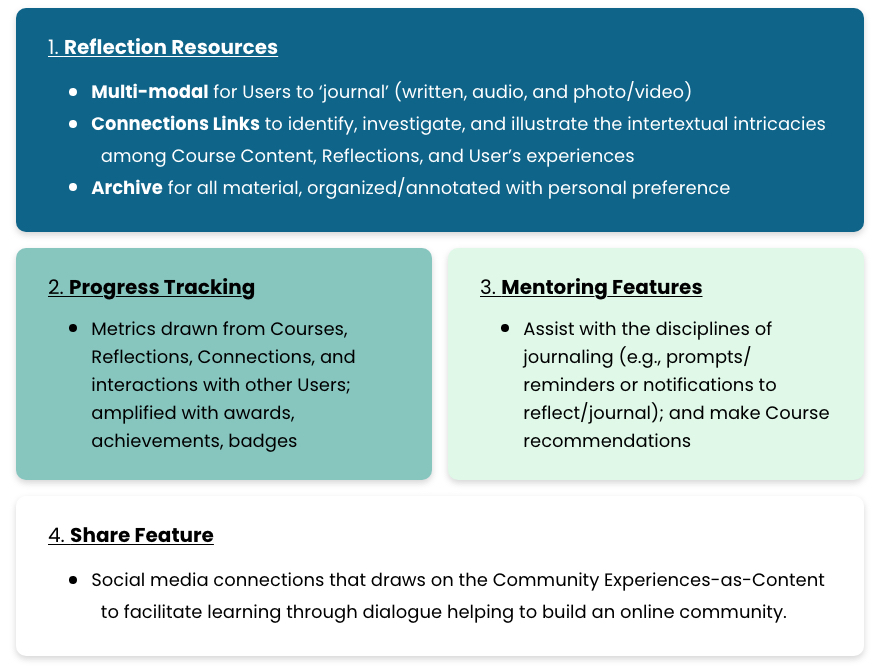
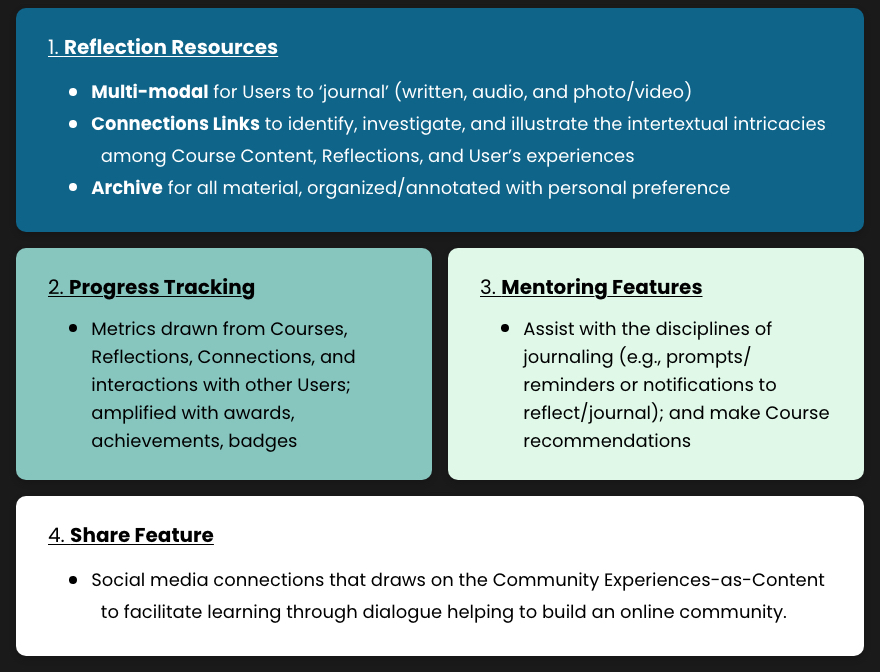
img fix

Changed region(s): [[0.0, 0.0, 1.0, 1.0]]

diff --git a/illumine.html b/illumine.html
@@ -255,7 +255,7 @@
             <h3>By creating an empathy map we were able to narrowed in on our user’s pains. We discovered that our particular type of user…</h3>
           </div>
           <div class="col-lg-12  my-auto" style="text-align: center;" data-aos="fade-up" data-aos-delay="100">
-            <img src="assets/portfolio_imgs/illumine-imgs/uxr-section/Illumine-empathy-map-pains.svg" class="img-fluid animated light-img-shadow" style="margin-bottom: 88px;" alt="">
+            <img src="assets/portfolio_imgs/illumine-imgs/Illumine-empathy-map-pains@2x.jpg" class="img-fluid animated light-img-shadow" style="margin-bottom: 88px;" alt="">
           </div>
         </div>
       </div>
@@ -268,7 +268,7 @@
             <h3>With the findings we have discovered so far our team camp up with a few assumptions.</h3>
           </div>
           <div class="col-lg-12  my-auto" style="text-align: center;" data-aos="fade-up" data-aos-delay="100">
-            <img src="assets/portfolio_imgs/illumine-imgs/uxr-section/Illumine-assumptions.svg" class="img-fluid animated light-img-shadow" style="margin-bottom: 0px;" alt="">
+            <img src="assets/portfolio_imgs/illumine-imgs/Illumine-assumptions@2x.jpg" class="img-fluid animated light-img-shadow" style="margin-bottom: 0px;" alt="">
           </div>
         </div>
       </div>
@@ -288,7 +288,7 @@
             <h3>With all of the findings from the research and analysis in mind we <strong>Defined a Problem Statement.</strong></h3>
           </div>
           <div class="col-lg-12  my-auto" style="text-align: center;" data-aos="fade-up" data-aos-delay="100">
-            <img src="assets/portfolio_imgs/illumine-imgs/def-ideation-section/Illumine-problem-statement.svg" class="img-fluid animated dark-img-shadow" style="margin-bottom: 32px;" alt="">
+            <img src="assets/portfolio_imgs/illumine-imgs/Illumine-problem-statement@2x.jpg" class="img-fluid animated dark-img-shadow" style="margin-bottom: 32px;" alt="">
           </div>
           <div class="col-lg-12 d-flex flex-column justify-content-center">
             <h3 style="margin-bottom: 88px !important;">This helped us focus our efforts toward developing features for users to be empowered when exploring the intersection between learning and motivation or mind and action.</h3>
@@ -345,7 +345,7 @@
             <h3 style="margin-bottom: 24px;">With our synthesized data we came up with 4 feature categories.</h3>
           </div>
           <div class="col-lg-12  my-auto" style="text-align: center;" data-aos="fade-up" data-aos-delay="100">
-            <img src="assets/portfolio_imgs/illumine-imgs/def-ideation-section/Illumine-feature-categories.svg" class="img-fluid animated " style="margin-bottom: 72px;" alt="">
+            <img src="assets/portfolio_imgs/illumine-imgs/Illumine-feature-categories@2x.jpg" class="img-fluid animated " style="margin-bottom: 72px;" alt="">
           </div>
         </div>
       </div>
